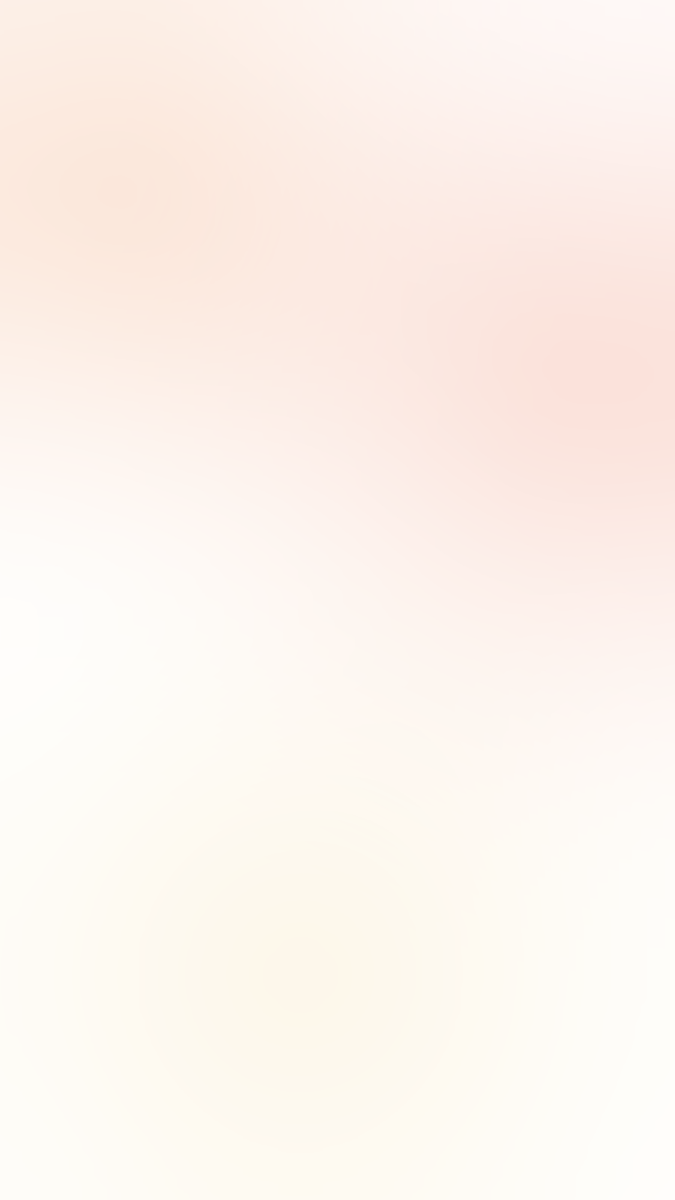
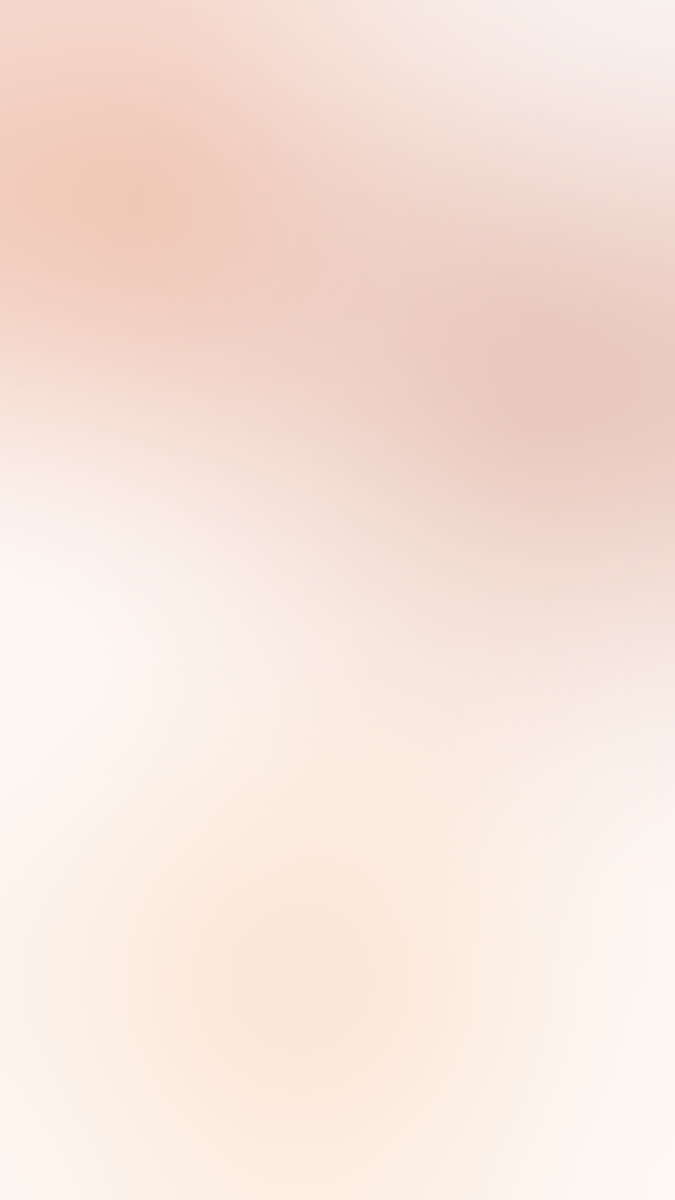
Fondos mas distintos entre si (Terracota/Bosque/Nocturno/Frambuesa/Mostaza) y mover seccion Fondo al final del perfil

Changed region(s): [[0.0, 0.0, 1.0, 0.4625]]

diff --git a/App.js b/App.js
@@ -49,11 +49,11 @@ const BACKEND_URL = 'https://picks-backend-30ur.onrender.com';
 // su perfil para darle un poco de personalidad a la app sin afectar la lectura.
 const APP_BACKGROUND_STORAGE_KEY = 'app-background-v1';
 const BACKGROUNDS = [
-  { id: 'amanecer', label: 'Amanecer', source: require('./assets/backgrounds/bg-amanecer.png') },
-  { id: 'salvia',   label: 'Salvia',   source: require('./assets/backgrounds/bg-salvia.png') },
-  { id: 'bruma',    label: 'Bruma',    source: require('./assets/backgrounds/bg-bruma.png') },
-  { id: 'coral',    label: 'Coral',    source: require('./assets/backgrounds/bg-coral.png') },
-  { id: 'arena',    label: 'Arena',    source: require('./assets/backgrounds/bg-arena.png') },
+  { id: 'amanecer', label: 'Terracota',  source: require('./assets/backgrounds/bg-amanecer.png') },
+  { id: 'salvia',   label: 'Bosque',     source: require('./assets/backgrounds/bg-salvia.png') },
+  { id: 'bruma',    label: 'Nocturno',   source: require('./assets/backgrounds/bg-bruma.png') },
+  { id: 'coral',    label: 'Frambuesa',  source: require('./assets/backgrounds/bg-coral.png') },
+  { id: 'arena',    label: 'Mostaza',    source: require('./assets/backgrounds/bg-arena.png') },
 ];
 function getBackgroundSource(id) {
   return BACKGROUNDS.find(b => b.id === id)?.source || null;
@@ -1285,7 +1285,7 @@ export default function App() {
  
   return (
     <>
-      {!!appBackground && (
+      {!!getBackgroundSource(appBackground) && (
         <Image
           source={getBackgroundSource(appBackground)}
           style={styles.appBackgroundImg}
@@ -1984,48 +1984,6 @@ function ProfileScreen({ userProfile, userInterests, onInterestsChange, onLogout
             </TouchableOpacity>
           </View>
 
-          {/* Fondo personalizado */}
-          <View style={profileStyles.section}>
-            <View style={profileStyles.sectionDivider} />
-            <Text style={profileStyles.sectionEyebrow}>PERSONALIZAR</Text>
-            <Text style={profileStyles.sectionTitle}>Fondo</Text>
-            <Text style={profileStyles.sectionSub}>
-              Un toque de color suave y translúcido detrás de la app. Es opcional.
-            </Text>
-            <ScrollView horizontal showsHorizontalScrollIndicator={false} contentContainerStyle={{ paddingRight: 8 }}>
-              <TouchableOpacity
-                style={profileStyles.bgSwatchWrap}
-                onPress={() => onBackgroundChange?.(null)}
-                activeOpacity={0.8}
-              >
-                <View style={[
-                  profileStyles.bgSwatchNone,
-                  !currentBackground && profileStyles.bgSwatchSelected,
-                ]}>
-                  <Ionicons name="close" size={18} color={COLORS.textTertiary} />
-                </View>
-                <Text style={profileStyles.bgSwatchLabel}>Ninguno</Text>
-              </TouchableOpacity>
-              {BACKGROUNDS.map(bg => (
-                <TouchableOpacity
-                  key={bg.id}
-                  style={profileStyles.bgSwatchWrap}
-                  onPress={() => onBackgroundChange?.(bg.id)}
-                  activeOpacity={0.8}
-                >
-                  <Image
-                    source={bg.source}
-                    style={[
-                      profileStyles.bgSwatch,
-                      currentBackground === bg.id && profileStyles.bgSwatchSelected,
-                    ]}
-                  />
-                  <Text style={profileStyles.bgSwatchLabel}>{bg.label}</Text>
-                </TouchableOpacity>
-              ))}
-            </ScrollView>
-          </View>
-
           {/* Intereses */}
           <View style={profileStyles.section}>
             <View style={profileStyles.sectionDivider} />
@@ -2281,6 +2239,48 @@ function ProfileScreen({ userProfile, userInterests, onInterestsChange, onLogout
                 </TouchableOpacity>
               </View>
             )}
+          </View>
+
+          {/* Fondo personalizado */}
+          <View style={profileStyles.section}>
+            <View style={profileStyles.sectionDivider} />
+            <Text style={profileStyles.sectionEyebrow}>PERSONALIZAR</Text>
+            <Text style={profileStyles.sectionTitle}>Fondo</Text>
+            <Text style={profileStyles.sectionSub}>
+              Un toque de color suave y translúcido detrás de la app. Es opcional.
+            </Text>
+            <ScrollView horizontal showsHorizontalScrollIndicator={false} contentContainerStyle={{ paddingRight: 8 }}>
+              <TouchableOpacity
+                style={profileStyles.bgSwatchWrap}
+                onPress={() => onBackgroundChange?.(null)}
+                activeOpacity={0.8}
+              >
+                <View style={[
+                  profileStyles.bgSwatchNone,
+                  !currentBackground && profileStyles.bgSwatchSelected,
+                ]}>
+                  <Ionicons name="close" size={18} color={COLORS.textTertiary} />
+                </View>
+                <Text style={profileStyles.bgSwatchLabel}>Ninguno</Text>
+              </TouchableOpacity>
+              {BACKGROUNDS.map(bg => (
+                <TouchableOpacity
+                  key={bg.id}
+                  style={profileStyles.bgSwatchWrap}
+                  onPress={() => onBackgroundChange?.(bg.id)}
+                  activeOpacity={0.8}
+                >
+                  <Image
+                    source={bg.source}
+                    style={[
+                      profileStyles.bgSwatch,
+                      currentBackground === bg.id && profileStyles.bgSwatchSelected,
+                    ]}
+                  />
+                  <Text style={profileStyles.bgSwatchLabel}>{bg.label}</Text>
+                </TouchableOpacity>
+              ))}
+            </ScrollView>
           </View>
         </ScrollView>
       </KeyboardAvoidingView>
